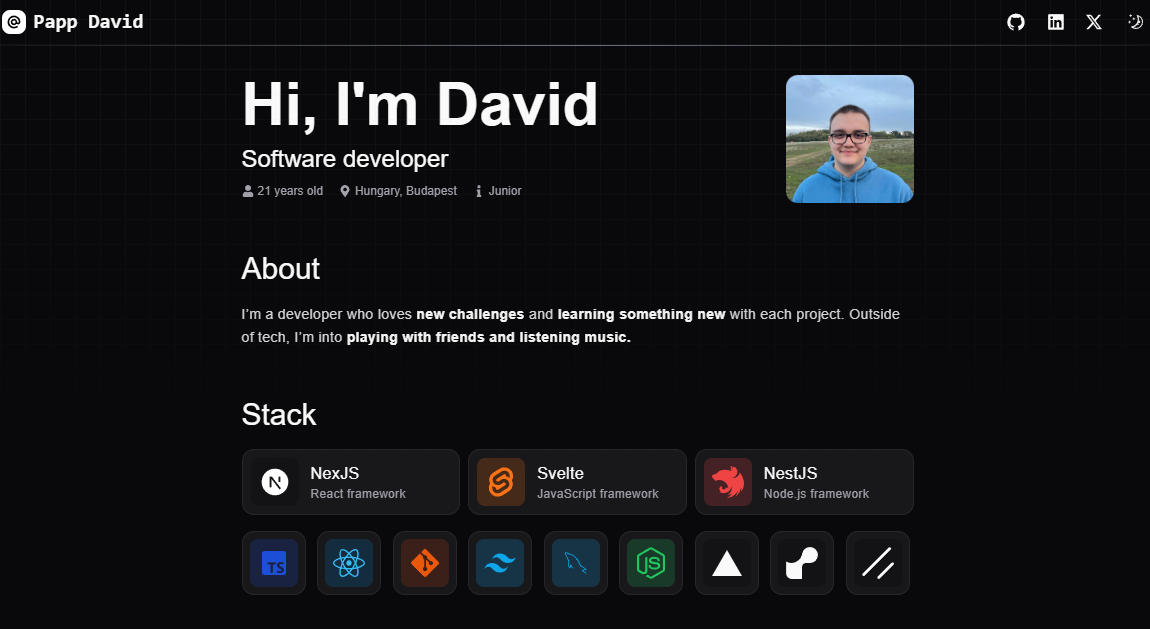
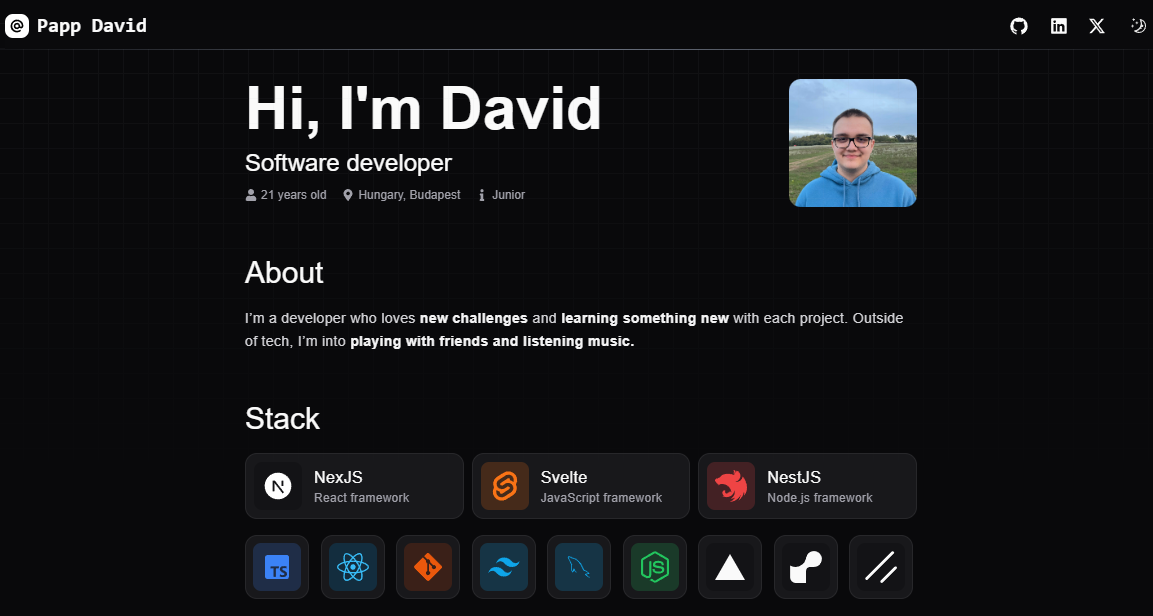
Add custom scrollbar and style for sections

diff --git a/src/components/my-components/education.tsx b/src/components/my-components/education.tsx
@@ -34,7 +34,7 @@ export default function Education() {
 
 
 
-                    <AccordionItem value="item-1" className=" transition-all border">
+                    <AccordionItem value="item-1" className=" transition-all border hover:border-zinc-300 dark:hover:border-zinc-700">
                         <AccordionTrigger className="flex p-2">
                             <div className="flex gap-2 ">
                                 <div className="min-w-10 h-10 bg-black rounded-lg"></div>
@@ -50,7 +50,7 @@ export default function Education() {
                                     <div className="relative col-span-12 px-4 space-y-6 sm:col-span-12">
                                         <div className="col-span-12 space-y-12 relative px-4 col-span-8 space-y-8 before:absolute before:top-2 before:bottom-0 before:w-0.5 before:-left-3 before:dark:bg-zinc-700 before:bg-zinc-400">
                                             <div className="flex flex-col relative before:absolute before:top-2 before:w-3 before:h-3 before:rounded-full before:left-[-33px] before:z-[1] before:dark:bg-white before:bg-zinc-600">
-                                                <h3 className="text-xl font-semibold tracking-wide">Professional exam</h3>
+                                                <h3 className="text-xl font-semibold tracking-wide ">Professional exam</h3>
                                                 <time className="text-xs tracking-wide text-zinc-600 dark:text-zinc-400 font-sans">Jun 2023</time>
                                                 <p className="mt-3 flex gap-1 items-center">
                                                     <GiGraduateCap className="w-4 h-4" />
@@ -195,7 +195,7 @@ export default function Education() {
                         </AccordionContent>
                     </AccordionItem>
 
-                    <AccordionItem value="item-2" className=" transition-all border">
+                    <AccordionItem value="item-2" className=" transition-all border hover:border-zinc-300 dark:hover:border-zinc-700">
                         <AccordionTrigger className="flex p-2">
                             <div className="flex gap-2 ">
                                 <div className="min-w-10 h-10 bg-black rounded-lg"></div>

diff --git a/src/app/page.tsx b/src/app/page.tsx
@@ -43,7 +43,7 @@ const BLUR_FADE_DELAY = 0.04;
 export default function Home() {
   return (
     <>
-      <div className="w-full flex justify-center mt-16 " id="introduction">
+      <div className="w-full flex justify-center mt-16 pb-32" id="introduction">
         <GridPattern
           width={25}
           height={25}
@@ -53,7 +53,7 @@ export default function Home() {
             "[mask-image:linear-gradient(to_bottom,white,transparent,transparent)] opacity-20",
           )}
         />
-        <div className="w-full max-w-2xl min-h-[2000px] flex flex-col gap-12" >
+        <div className="w-full max-w-2xl h-fit  flex flex-col gap-12" >
 
           <section className="w-full pt-4 animate-[downblur_2s_ease-in-out] flex flex-col gap-4" >
 
@@ -286,7 +286,7 @@ export default function Home() {
               <div className="grid sm:grid-cols-2 gap-4">
 
                 <div className="w-full bg-zinc-100 dark:bg-zinc-900 border p-0.5 rounded-xl hover:cursor-pointer hover:border-zinc-300 dark:hover:border-zinc-700 transition-all">
-                  <img src="/portfolio.png" alt="portfolio.png" className="w-full max-h-44 rounded-xl	hidden dark:flex" />
+                  <img src="/portfolio.png" alt="portfolio.png" className="w-full aspect-video sm:h-22  rounded-xl	hidden dark:flex" />
                   <img src="/lightportfolio.png" alt="portfolio.png" className="w-full max-h-44 rounded-xl  flex dark:hidden	" />
                   <div className="p-1 flex flex-col gap-2">
                     <div className="flex justify-between items-center">

diff --git a/src/components/my-components/contact.tsx b/src/components/my-components/contact.tsx
@@ -1,6 +1,5 @@
 
 import { FaXTwitter } from "react-icons/fa6";
-import ShinyButton from "@/components/magicui/shiny-button";
 
 export default function Contact() {
     return (
@@ -8,12 +7,12 @@ export default function Contact() {
             <div className=" flex flex-col gap-4 px-4 sm:px-0">
                 <h3 className="text-3xl font-medium font-regularFont ">Contact</h3>
                 <div className="w-full flex flex-col gap-3 justify-center text-xs text-zinc-600 dark:text-zinc-400 ">
-                    <div className="text-2xl text-center">
+                    <div className="text-3xl text-center">
                         Get in touch with me via Twitter DM for any questions or collaborations!
                     </div>
                     <div className="w-full flex justify-center">
                         <a href="https://x.com/Dvid50334776" target="__blank"
-                            className="bg-black dark:bg-white p-1 px-3 w-fit rounded-sm flex gap-1 items-center text-lg hover:text-white text-zinc-300 dark:hover:text-black transition-all dark:text-zinc-600">
+                            className="bg-black dark:bg-white p-1 px-3 w-fit rounded-lg flex gap-1 items-center text-lg hover:text-white text-zinc-300 dark:hover:text-black transition-all dark:text-zinc-600">
                             <FaXTwitter className="w-4 h-4" />
                             Message</a>
                     </div>

diff --git a/src/app/globals.css b/src/app/globals.css
@@ -121,3 +121,25 @@ body {
 html {
   scroll-behavior: smooth;
 }
+
+body::-webkit-scrollbar {
+  width: 6px;             /* width of the entire scrollbar */
+}
+
+body::-webkit-scrollbar-track {
+  background: transparent;        /* color of the tracking area */
+}
+
+body::-webkit-scrollbar-thumb {
+  background-color: rgba(44, 44, 44, 0.466);    /* color of the scroll thumb */
+  border-radius: 20px;       /* roundness of the scroll thumb */
+  transition: all .5s;
+}
+
+body::-webkit-scrollbar-thumb:hover {
+  cursor: pointer;
+  background-color: rgba(59, 59, 59, 0.466);    /* color of the scroll thumb */
+  border-radius: 20px;       /* roundness of the scroll thumb */
+  
+}
+

diff --git a/src/components/ui/accordion.tsx b/src/components/ui/accordion.tsx
@@ -28,7 +28,7 @@ const AccordionTrigger = React.forwardRef<
     <AccordionPrimitive.Trigger
       ref={ref}
       className={cn(
-        "flex flex-1 items-center justify-between  px-4  py-4 text-sm font-medium transition-all hover:underline  [&[data-state=open]>svg]:rotate-180",
+        "flex flex-1 items-center justify-between  px-4  py-4 text-sm font-medium transition-all   [&[data-state=open]>svg]:rotate-180",
         className
       )}
       {...props}

diff --git a/src/components/my-components/navbar.tsx b/src/components/my-components/navbar.tsx
@@ -12,7 +12,7 @@ import BlurFade from "../magicui/blur-fade";
 export default function Navbar() {
     return (
         
-            <div className="w-full fixed top-0 animate-[example_1s_ease-in-out]">
+            <div className="w-full fixed top-0 animate-[example_1s_ease-in-out] z-50">
                 
                 <div className="mx-auto px-4 sm:px-0 w-full max-w-6xl h-[50px] flex items-center justify-between px-2 pt-1 backdrop-blur-lg">
 

diff --git a/src/app/layout.tsx b/src/app/layout.tsx
@@ -28,6 +28,9 @@ export default function RootLayout({
 }>) {
   return (
     <html lang="en">
+      <head>
+        <title>Papp Dávid</title>
+      </head>
       <body
         className={`${geistSans.variable} ${geistMono.variable} antialiased`}
       >
